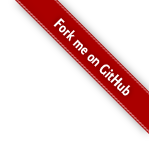
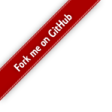
fergot stuff

diff --git a/about/styles/site.css b/about/styles/site.css
@@ -15,15 +15,20 @@ body {
 	padding: 0px;
 	margin: auto;	
 	background-color: #E0E0E0;
+	-webkit-transform: translate(0px);
+	-khtml-transform: translate(0px);
+	-moz-transform: translate(0px);
+	-ms-transform: translate(0px);
+	-o-transform: translate(0px);
+	transform: translate(0px);
 }
 
 #bg {
 	position: absolute;
 	left: 0px; right: 0px;
 	top: 0px; bottom: 0px;
-	margin: 0px -1000px;
+	margin: 0px -500px 0px -500px;
 	background: url('../images/bg1.png'), url('../images/bg2.png'), url('../images/bg3.png');
-	background-attachment: fixed;
 }
 
 header {
@@ -100,9 +105,9 @@ header > nav > *:last-child:hover {
 }
 #github {
 	position: fixed;
-	width: 149px;
-	height: 149px;
-	right: 0px;
+	width: 112px;
+	height: 112px;
+	left: 0px;
 	top: 0px;
 	background: url('../images/github.png');
 }
